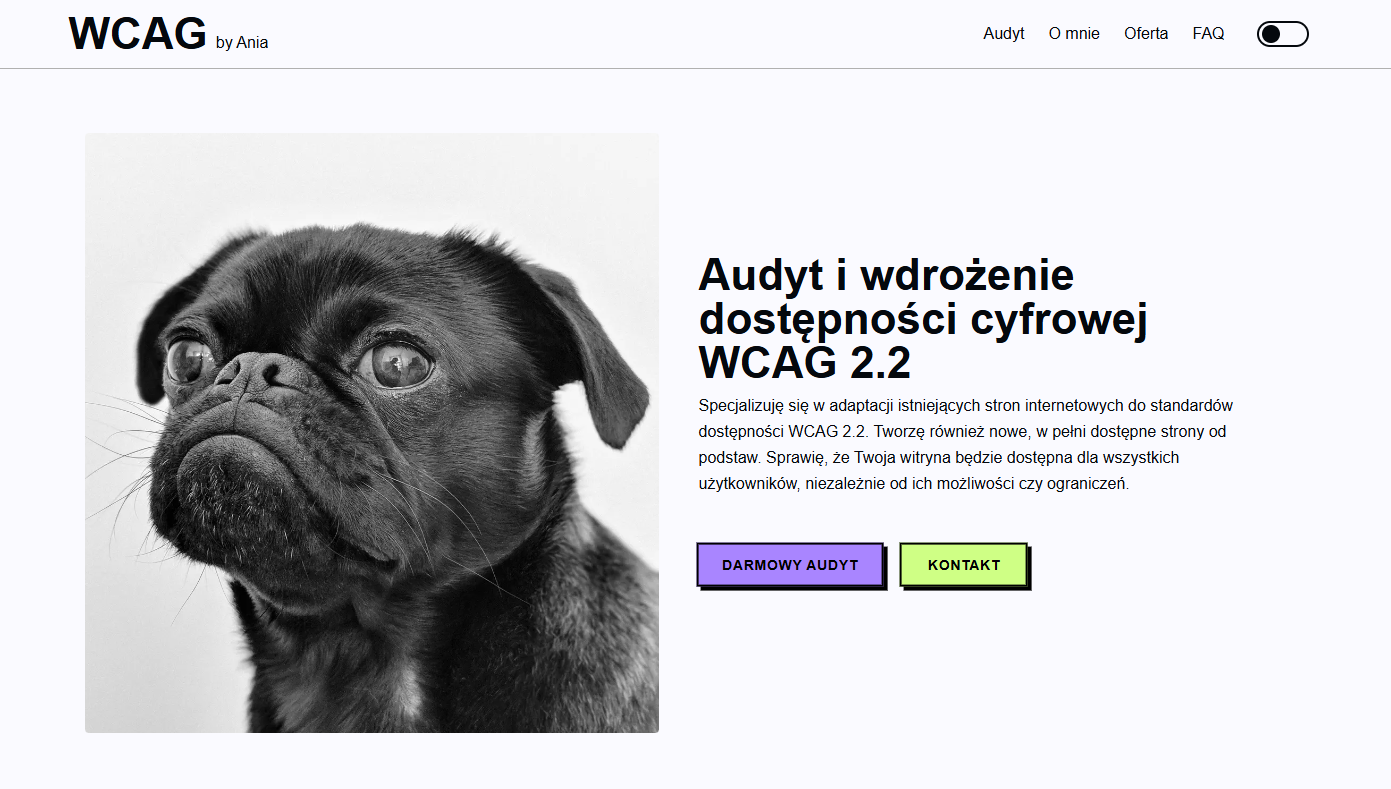
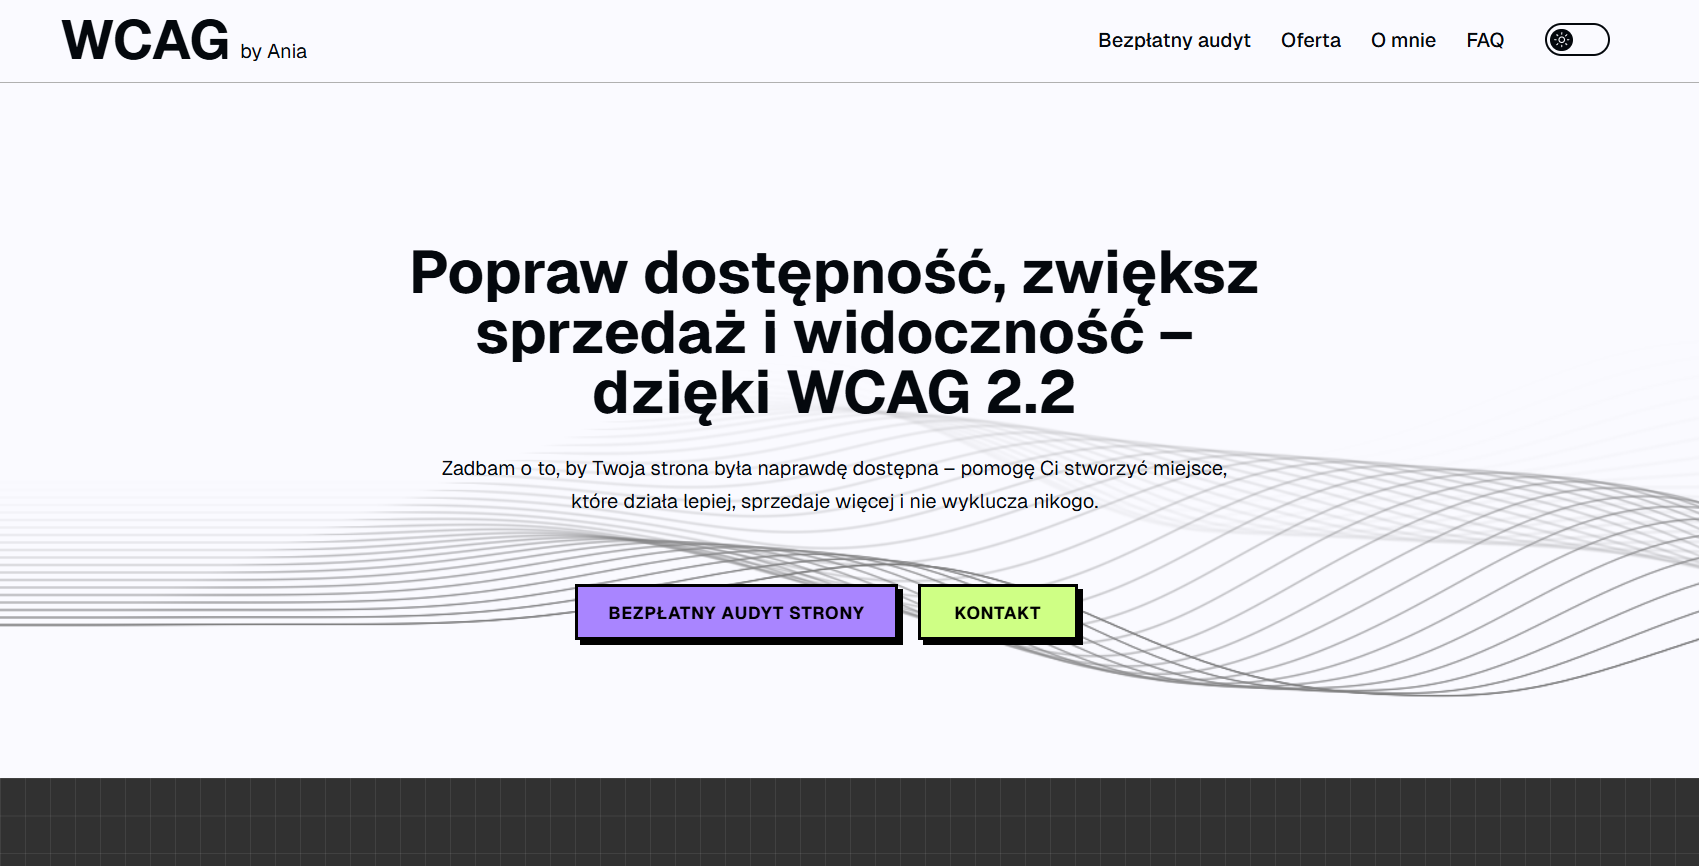
feat: offer card fix

diff --git a/src/components/atoms/OfferCard/OfferCard.tsx b/src/components/atoms/OfferCard/OfferCard.tsx
@@ -1,5 +1,5 @@
 'use client';
-import React, { useState, useEffect } from 'react';
+import React, { useState, useEffect, useRef, useCallback } from 'react';
 import styles from './OfferCard.module.scss';
 import { Button } from '../Button/Button';
 
@@ -18,6 +18,8 @@ type OfferCardProps = {
   features: string[];
   buttonText?: string;
   buttonUrl?: string;
+  emailSubject?: string;
+  emailBody?: string;
   popular?: boolean;
   className?: string;
 };
@@ -30,9 +32,13 @@ export const OfferCard = ({
   features = [],
   buttonText = 'Dowiedz się więcej',
   buttonUrl = '#',
+  emailSubject = '',
+  emailBody = '',
 }: OfferCardProps) => {
   const [showFeatures, setShowFeatures] = useState(false);
   const [isMobile, setIsMobile] = useState(false);
+  const cardRef = useRef<HTMLDivElement>(null);
+  const featuresSectionRef = useRef<HTMLDivElement>(null);
 
   useEffect(() => {
     const checkIfMobile = () => {
@@ -51,9 +57,29 @@ export const OfferCard = ({
   
   const toggleFeatures = () => {
     setShowFeatures(!showFeatures);
+    
+    // Delay update of parent card height to allow animation to start
+    setTimeout(() => {
+      updateCardHeight();
+    }, 50);
   };
+  
+  // Function to update the card height based on content
+  const updateCardHeight = useCallback(() => {
+    if (isMobile && cardRef.current) {
+      // Reset height to auto first to get natural height
+      cardRef.current.style.height = 'auto';
+    }
+  }, [isMobile]);
+  
+  // Effect to adjust card height when features visibility changes
+  useEffect(() => {
+    if (isMobile && showFeatures) {
+      updateCardHeight();
+    }
+  }, [showFeatures, isMobile, updateCardHeight]);
   return (
-    <div className={styles.card}>
+    <div className={`${styles.card} ${showFeatures ? styles.expanded : ''}`} ref={cardRef}>
       <div className={styles.header}>
         <h3 className={styles.title}>{title}</h3>
         {subtitle && <p className={styles.subtitle}>{subtitle}</p>}
@@ -76,7 +102,17 @@ export const OfferCard = ({
         <div className={styles.buttonWrapper}>
           <Button 
             variant="primary" 
-            onClick={() => { if (buttonUrl) window.location.href = buttonUrl; }}
+            onClick={() => {
+              // Sprawdź, czy mamy dane emaila
+              if (emailSubject && emailBody) {
+                // Utworzenie poprawnego linku mailto z encodowanym tytułem i treścią
+                const mailtoUrl = `mailto:biuro@wcag.co?subject=${encodeURIComponent(emailSubject)}&body=${encodeURIComponent(emailBody)}`;
+                window.location.href = mailtoUrl;
+              } else if (buttonUrl) {
+                // Fallback do zwykłego URL
+                window.location.href = buttonUrl;
+              }
+            }}
           >
             {buttonText}
           </Button>
@@ -108,7 +144,8 @@ export const OfferCard = ({
           {isMobile ? (
             <div 
               id={`features-${title.replace(/\s+/g, '-').toLowerCase()}`}
-              className={styles.featuresSection}
+              className={`${styles.featuresSection} ${showFeatures ? styles.featuresVisible : ''}`}
+              ref={featuresSectionRef}
               style={{ 
                 maxHeight: showFeatures ? '1000px' : '0',
                 overflow: 'hidden',
@@ -119,6 +156,7 @@ export const OfferCard = ({
                 opacity: showFeatures ? 1 : 0
               }}
               aria-hidden={!showFeatures}
+              onTransitionEnd={updateCardHeight}
             >
               <ul className={styles.featuresList}>
                 {features.map((feature, index) => (

diff --git a/src/components/landing/Offer/Offer.tsx b/src/components/landing/Offer/Offer.tsx
@@ -12,18 +12,27 @@ export const offers = [
     description:
       'Szczegółowa analiza Twojej strony pod kątem zgodności z WCAG 2.2.',
     price: {
-      amount: '399',
+      amount: 'od 399',
       currency: 'zł netto',
       period: 'jednorazowo',
     },
     features: [
       'Manualny audyt dostępności stron internetowych',
-      'Analiza 92 kluczowych kryteriów dostępności wskazanych przez Ministerstwo Cyfryzacji',
+      'Analiza kluczowych kryteriów dostępności wskazanych przez Ministerstwo Cyfryzacji',
       'Szczegółowy raport z wykrytymi problemami dostępności',
+      'dostępne poziomy auditu: podstawowy, średni i zaawansowany',
       'Praktyczne rekomendacje naprawcze',
       'Audyt dostępności do 5 podstron serwisu'
     ],
-    
+    emailSubject: 'Zapytanie o audyt dostępności',
+    emailBody: `Dzień dobry,
+
+Jestem zainteresowany/a zamówieniem audytu dostępności dla mojej strony internetowej.
+
+Proszę o informacje dotyczące procesu i dostępnych pakietów.
+
+Pozdrawiam,
+`,
     buttonText: 'Zamów audyt'
   },
   {
@@ -40,12 +49,20 @@ export const offers = [
     features: [
       'Manualny audyt dostępności stron',
       'Implementacja poprawek dostępności',
-      'Testy dostępności z użytkownikami',
+      'Testy dostępności',
       'Certyfikat dostępności cyfrowej',
       'Deklaracja dostępności strony',
       'Wsparcie po wdrożeniu dostępności'
     ],
-    
+    emailSubject: 'Zapytanie o dostosowanie strony do WCAG 2.2',
+    emailBody: `Dzień dobry,
+
+Jestem zainteresowany/a dostosowaniem mojej strony internetowej do standardów WCAG 2.2.
+
+Proszę o wycenę oraz informacje o procesie dostosowania.
+
+Pozdrawiam,
+`,
     buttonText: 'Zapytaj o wycenę'
   },
   {
@@ -67,6 +84,15 @@ export const offers = [
       'Deklaracja dostępności strony',
       'Wsparcie techniczne'
     ],
+    emailSubject: 'Zapytanie o stworzenie dostępnej strony',
+    emailBody: `Dzień dobry,
+
+Jestem zainteresowany/a stworzeniem nowej, w pełni dostępnej strony internetowej zgodnej z WCAG 2.2.
+
+Proszę o wycenę oraz informacje o procesie tworzenia strony.
+
+Pozdrawiam,
+`,
     buttonText: 'Zapytaj o wycenę'
   },
 ];
@@ -162,6 +188,8 @@ export const Offer = () => {
               price={card.price}
               features={card.features}
               buttonText={card.buttonText}
+              emailSubject={card.emailSubject}
+              emailBody={card.emailBody}
             />
           </div>
         ))}
@@ -178,6 +206,8 @@ export const Offer = () => {
               price={card.price}
               features={card.features}
               buttonText={card.buttonText}
+              emailSubject={card.emailSubject}
+              emailBody={card.emailBody}
             />
           </div>
         ))}

diff --git a/middleware.ts b/middleware.ts
@@ -40,37 +40,30 @@ export async function middleware(req: NextRequest) {
   
   console.log(`\x1b[35m🔄 [Middleware] Przetwarzanie ścieżki: ${pathname}\x1b[0m`);
   
-  // Sprawdzamy czy to jest żądanie z audytu automatycznego
-  const auditHeader = req.headers.get('x-wcag-audit');
-  console.log('\x1b[36m📡 [Headers Debug] x-wcag-audit header:', auditHeader, '\x1b[0m');
-  
   // Wypisujemy wszystkie nagłówki dla celów diagnostycznych
   console.log('\x1b[36m📡 [Headers Debug] Wszystkie nagłówki:\x1b[0m');
   req.headers.forEach((value, key) => {
     console.log(`\x1b[36m - ${key}: ${value}\x1b[0m`);
   });
   
-  const isAuditRequest = auditHeader === 'true';
-  if (isAuditRequest) {
-    console.log('\x1b[32m✅ [Audit] Wykryto żądanie z audytu automatycznego - pomijamy uwierzytelnianie\x1b[0m');
-    return NextResponse.next();
-  }
-  
-  // Ścieżki związane z audytami automatycznymi, które powinny być dostępne bez uwierzytelniania
-  const publicAuditPaths = [
-    '/admin/auto-audits',
+  // Ścieżki wyłącznie API, które mogą mieć specjalne traktowanie
+  const apiPaths = [
     '/api/admin-audits'
   ];
   
-  // Sprawdzamy, czy bieżąca ścieżka jest publiczną ścieżką audytu
-  const isPublicAuditPath = publicAuditPaths.some(path => pathname === path || pathname.startsWith(path + '/'));
-  
-  if (isPublicAuditPath) {
-    console.log('\x1b[32m✅ [Public Path] Wykryto publiczną ścieżkę audytu - pomijamy uwierzytelnianie\x1b[0m');
-    return NextResponse.next();
+  // Dla ścieżek API, możemy dodać dodatkowe mechanizmy uwierzytelniania, np. token API
+  const isApiPath = apiPaths.some(path => pathname === path || pathname.startsWith(path + '/'));
+  if (isApiPath) {
+    // Uwaga: Nawet dla API wymagamy uwierzytelniania, ale można dodać tutaj specjalną logikę
+    // np. sprawdzanie tokenu API zamiast sesji
+    const apiKey = req.headers.get('x-api-key');
+    if (apiKey === process.env.API_SECRET_KEY) {
+      console.log('\x1b[32m✅ [API] Uwierzytelnianie przez API Key - dozwolone\x1b[0m');
+      return NextResponse.next();
+    }
   }
   
-  // Protect /admin root and all subpages except /admin/login and public audit paths
+  // Protect /admin root and all subpages except /admin/login
   if ((pathname === '/admin' || (pathname.startsWith('/admin/') && pathname !== '/admin/login'))) {
     console.log('\x1b[33m🔍 [Auth Check] Sprawdzanie sesji dla ścieżki administracyjnej\x1b[0m');
     const isValid = await validateSessionInMiddleware(req);

diff --git a/src/components/atoms/OfferCard/OfferCard.module.scss b/src/components/atoms/OfferCard/OfferCard.module.scss
@@ -11,12 +11,17 @@
   border-radius: 4px;
   border: 2px solid var(--border);
   box-shadow: 0 0 0 0 var(--accent);
-  transition: box-shadow 0.3s ease;
+  transition: height 0.5s ease, box-shadow 0.3s ease;
 
   
- &:hover {
- box-shadow: 0 0 0 2px var(--accent);
+  &:hover {
+    box-shadow: 0 0 0 2px var(--accent);
   } 
+  
+  &.expanded {
+    height: auto;
+    transition: height 0.5s ease;
+  }
 }
 
 .header {
@@ -118,6 +123,10 @@
   display: flex;
   flex-direction: column;
   align-items: flex-start;
+  
+  &.featuresVisible {
+    height: auto;
+  }
 }
 
 .button {
@@ -199,9 +208,22 @@ padding: 0.5rem 1rem;
 }
 
 @media (max-width: 48rem) { /* 768px */
-  .card:hover {
-    transform: none;
-    box-shadow: none;
+  .card {
+    width: 280px; /* Stała szerokość dla przewijania */
+    flex-shrink: 0; /* Zapobiega kurczeniu się karty */
+    height: auto;
+    min-height: auto;
+    transition: height 0.5s ease;
+    
+    &:hover {
+      transform: none;
+      box-shadow: none;
+    }
+    
+    &.expanded {
+      height: auto;
+      min-height: auto;
+    }
   }
 
   .buttonWrapper {
@@ -209,6 +231,11 @@ padding: 0.5rem 1rem;
     width: 80%;
     display: flex;
     justify-content: center;
+  }
+  
+  .featuresSection {
+    width: 100%;
+    box-sizing: border-box;
   }
 }
 

diff --git a/src/components/landing/Offer/Offer.module.scss b/src/components/landing/Offer/Offer.module.scss
@@ -88,8 +88,10 @@
     width: 100%;
     max-width: 100%;
     box-sizing: border-box;
-    padding-inline: 0;
+    padding: 0 16px 20px 16px; // Dodajemy boczne paddingii lepszy padding dolny
     gap: 16px;
+    flex-wrap: nowrap; // Zapobiega zawijaniu kart
+    scrollbar-width: thin;
   }
 
   .cardsMobile::-webkit-scrollbar {
@@ -98,6 +100,12 @@
 
   .cardItem {
     scroll-snap-align: start;
+    // Upewnia się, że karty mają elastyczną wysokość
+    height: auto;
+    min-height: auto;
+    max-height: none;
+    // Pozwala na rozszerzanie się karty
+    transition: height 0.5s ease;
   }
 }
 
